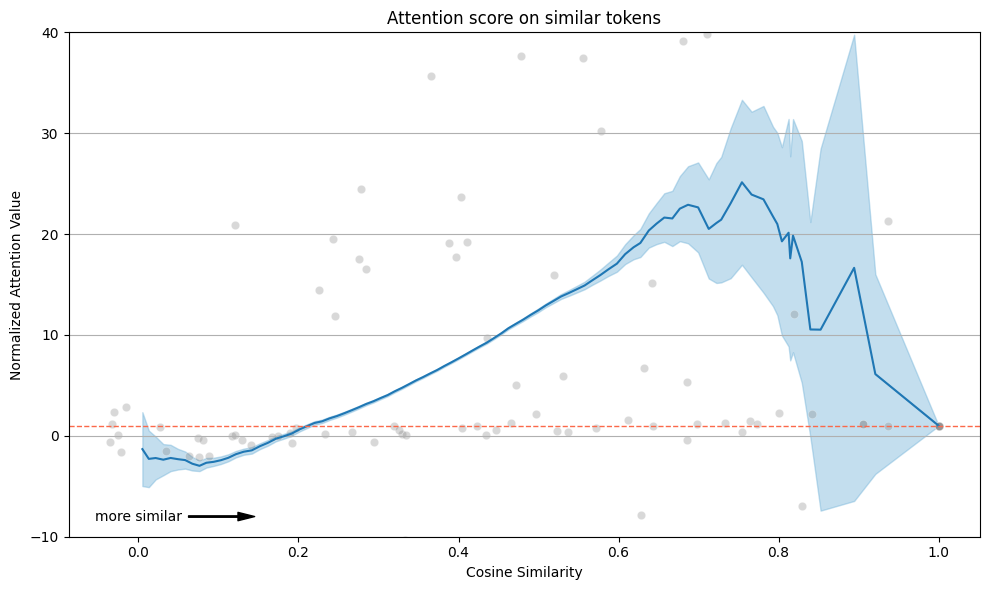
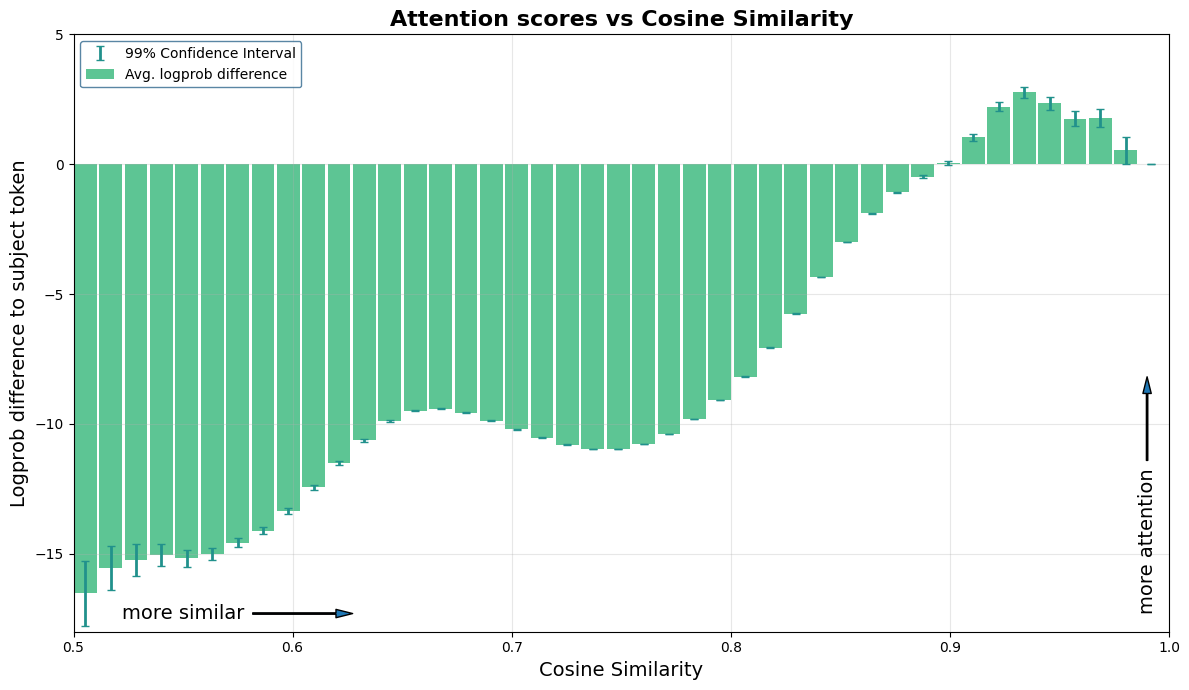
vault backup: 17/06/2025 14:04:13

diff --git a/content/ARENA/Draft.md b/content/ARENA/Draft.md
@@ -33,11 +33,11 @@ First, we need to isolate this behavior and find the components responsible for 
 To reliably trigger the head's behavior, I created a simple prompt by shuffling tokens from various hand-picked semantic categories. This creates a context where the head has many opportunities to demonstrate its preference for in-category attention.
 
 ```
-<bos> 32 green green cat red 4 green scared angry 50 blue purple red cat cat
+<bos> blue sad cat purple purple 24 blue cat purple sheep 69 32 happy horse angry
 ```
 
 Based on the three rules observed above, I defined an "expected" attention pattern for this prompt. For example, `cat` should attend to `horse`, but not to `cat` or `blue`. This gives me a target mask representing the idealized behavior of the head.
-
+![[expected _mask.png]]
 _Example of expected attention pattern._
 
 ### Semantic Category Score
@@ -48,6 +48,7 @@ $$
 $$
 
 A lower score means a better match. As expected, a survey of all heads in the model shows that L1H5 is an outlier with a uniquely low score, confirming it's specialized for this task.
+![[surprisal.png]]
 
 +++ Loss derivation
 
@@ -125,6 +126,7 @@ $$x\,W_{QK}\,y^T>x\,W_{QK}\,x^T>x\,W_{QK}\,z^T$$
 
 To empirically verify this we can plot the average attention score obtained by a pair $x,y$ in L1H5 against their initial similarity. We can notice that the peak attention score is not at a similarity of 1, but below it, at circa 0.7, showing the head prefers tokens that are similar, but not identical.
 
+![[attn_over_similarity.png]]
 _Attention score between similar tokens. Note that most of the tokens have low similarity, so most of the mass concentrated between 0.1 and 0.7. Above that we have less data and thus much more variability._
 
 ### Decomposing the Matrix
@@ -140,6 +142,8 @@ W_{QK} &= W_{sym} + W_{skew}
 This decomposition is useful because the skew-symmetric part always has zero contribution to self-attention ($x W_{skew} x^T=0$).
 
 When I tested these components separately, the result was clear. The symmetric matrix, $W_{sym}$, was able to reproduce the full behavior on its own: high off-diagonal attention within semantic blocks and low diagonal self-attention. The skew-symmetric part had a negligible effect.
+
+![[base_sym_skew_attn.png]]
 
 +++ About $W_{skew}$
 
@@ -163,7 +167,6 @@ The head suppresses self-attention for a vector $x$ by having it align with "sup
 This is a testable hypothesis. First, I computed the 64 eigenvalues of $W_{sym}$ and found that 33 of them are negative. This strongly supports the theory.
 
 The ultimate test is to see if we can control the behavior by manipulating these eigenvalues. I created a steering mechanism to scale all negative eigenvalues by a factor $\alpha \in \mathbb{R}$.
-	 
 ```
 # Decompose the symmetric matrix
 eigenvalues, eigenvectors = eigen_decomposition(W_sym)
